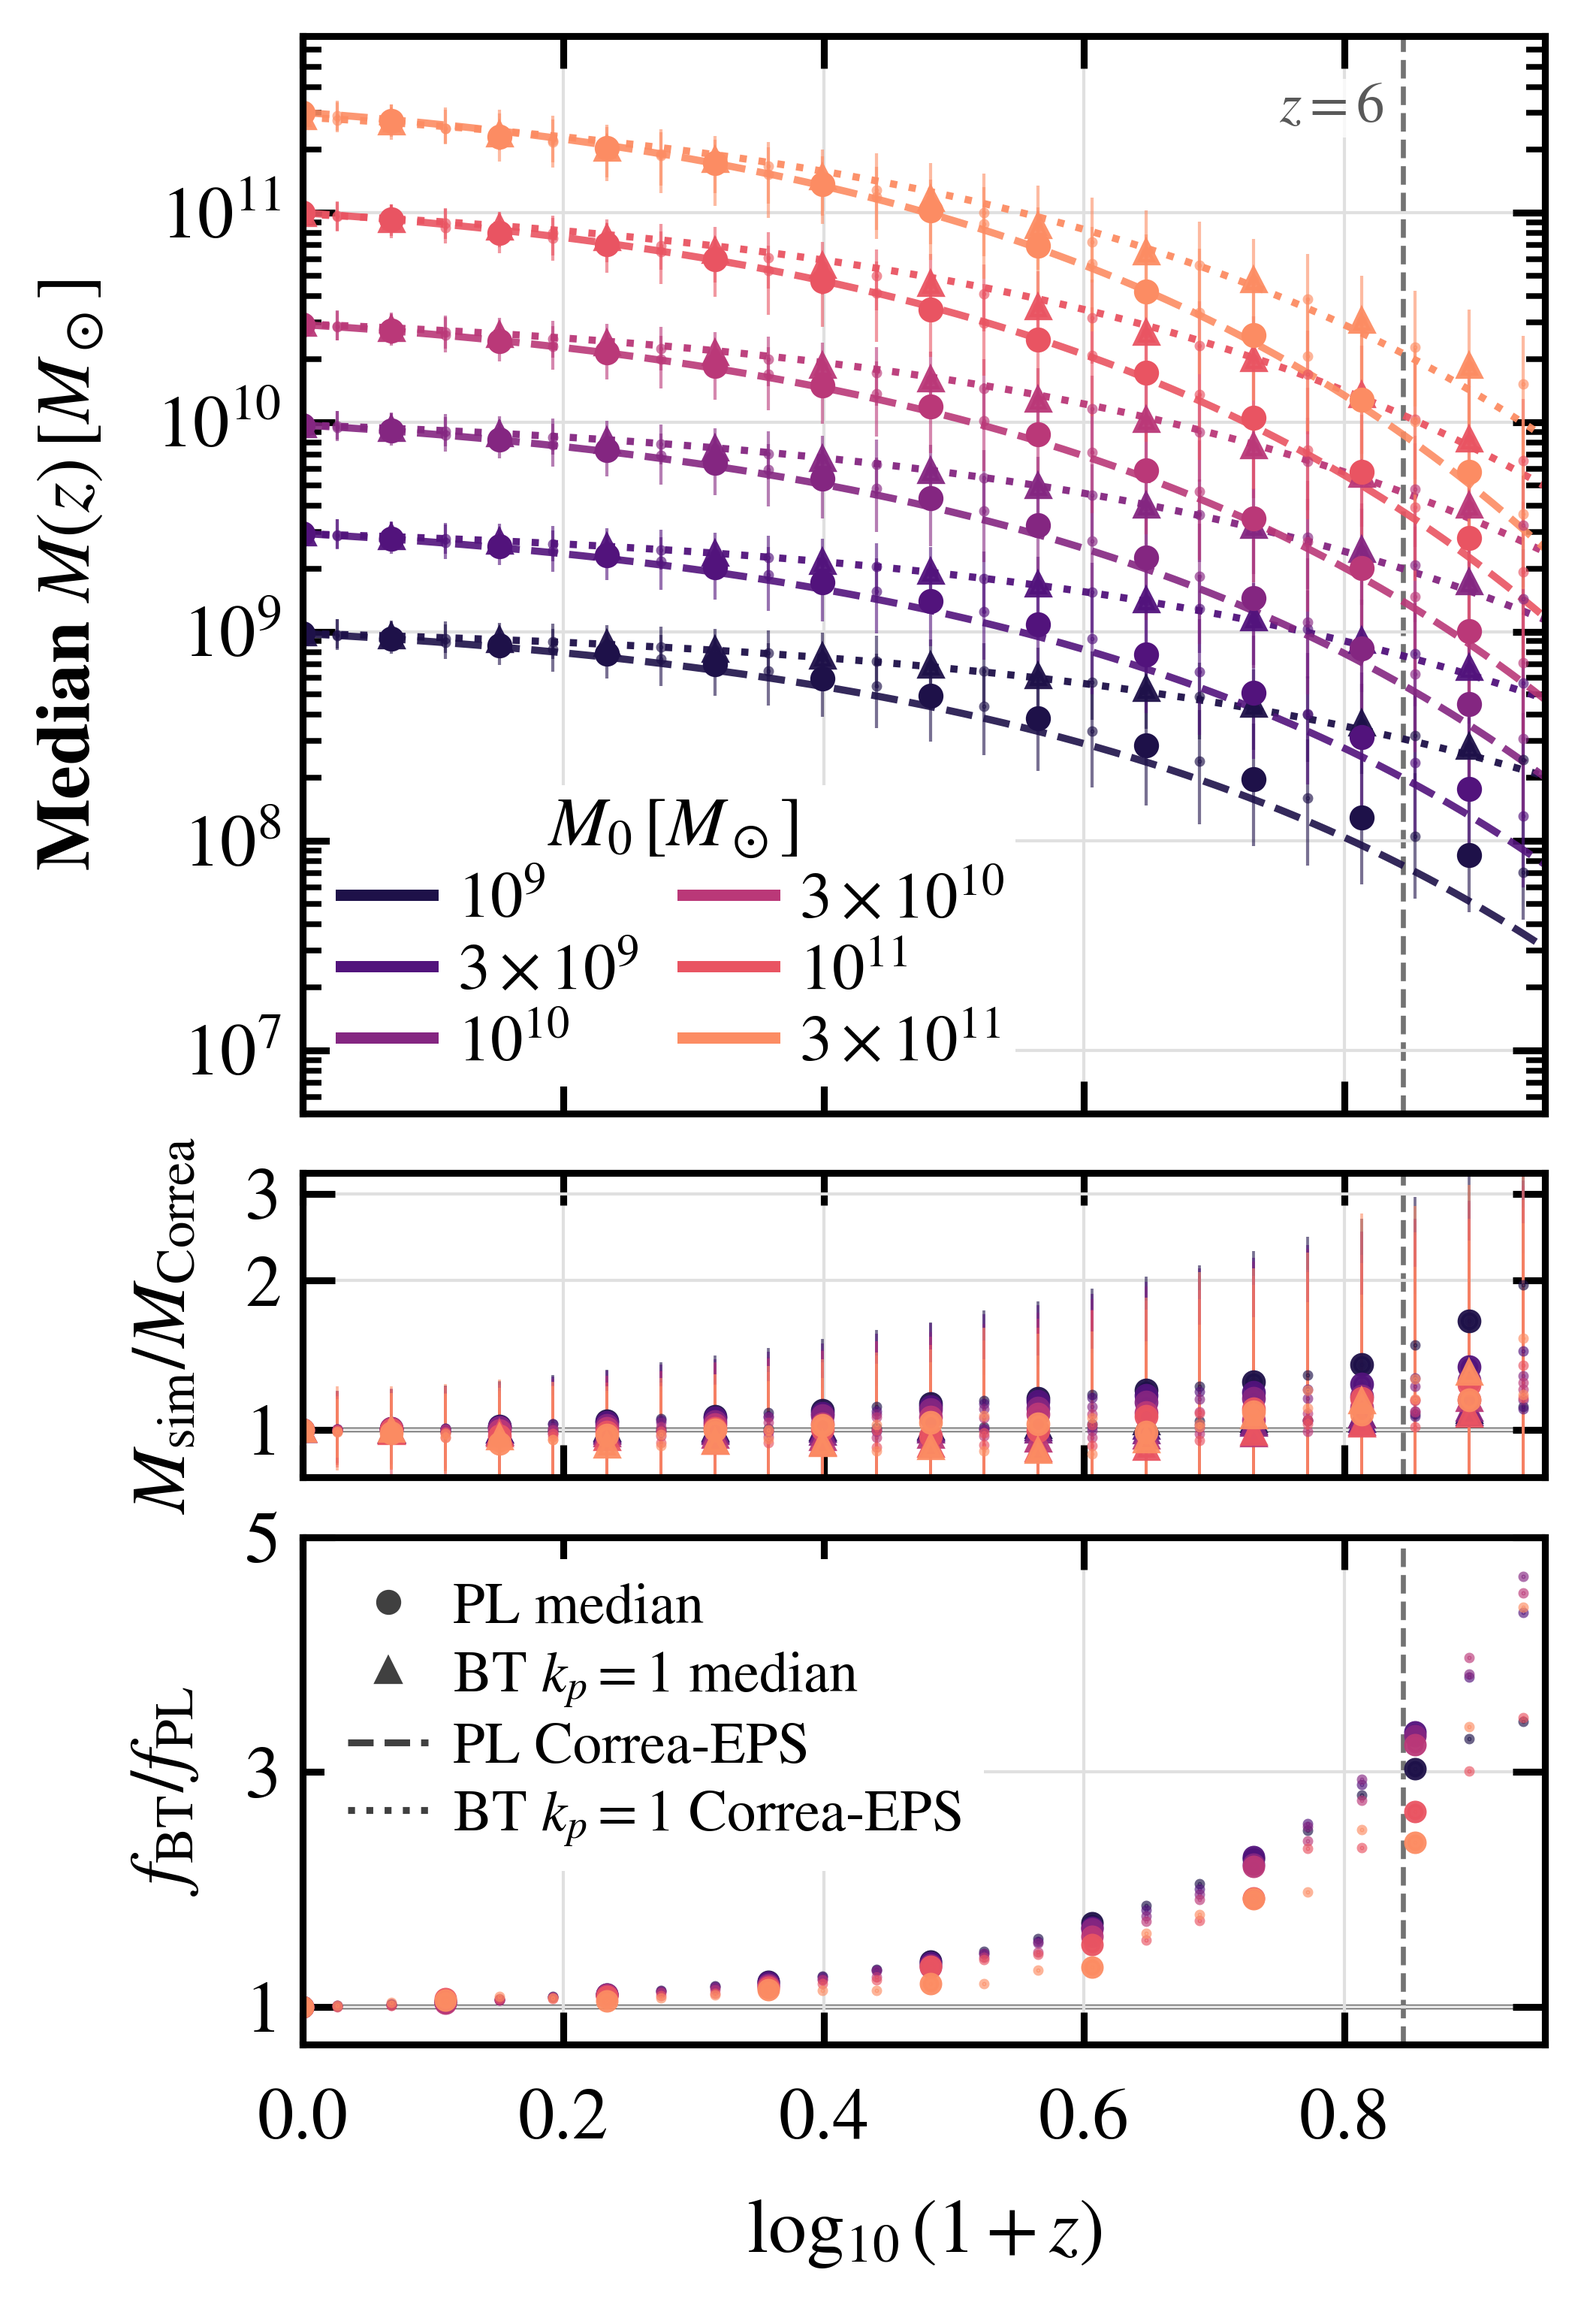
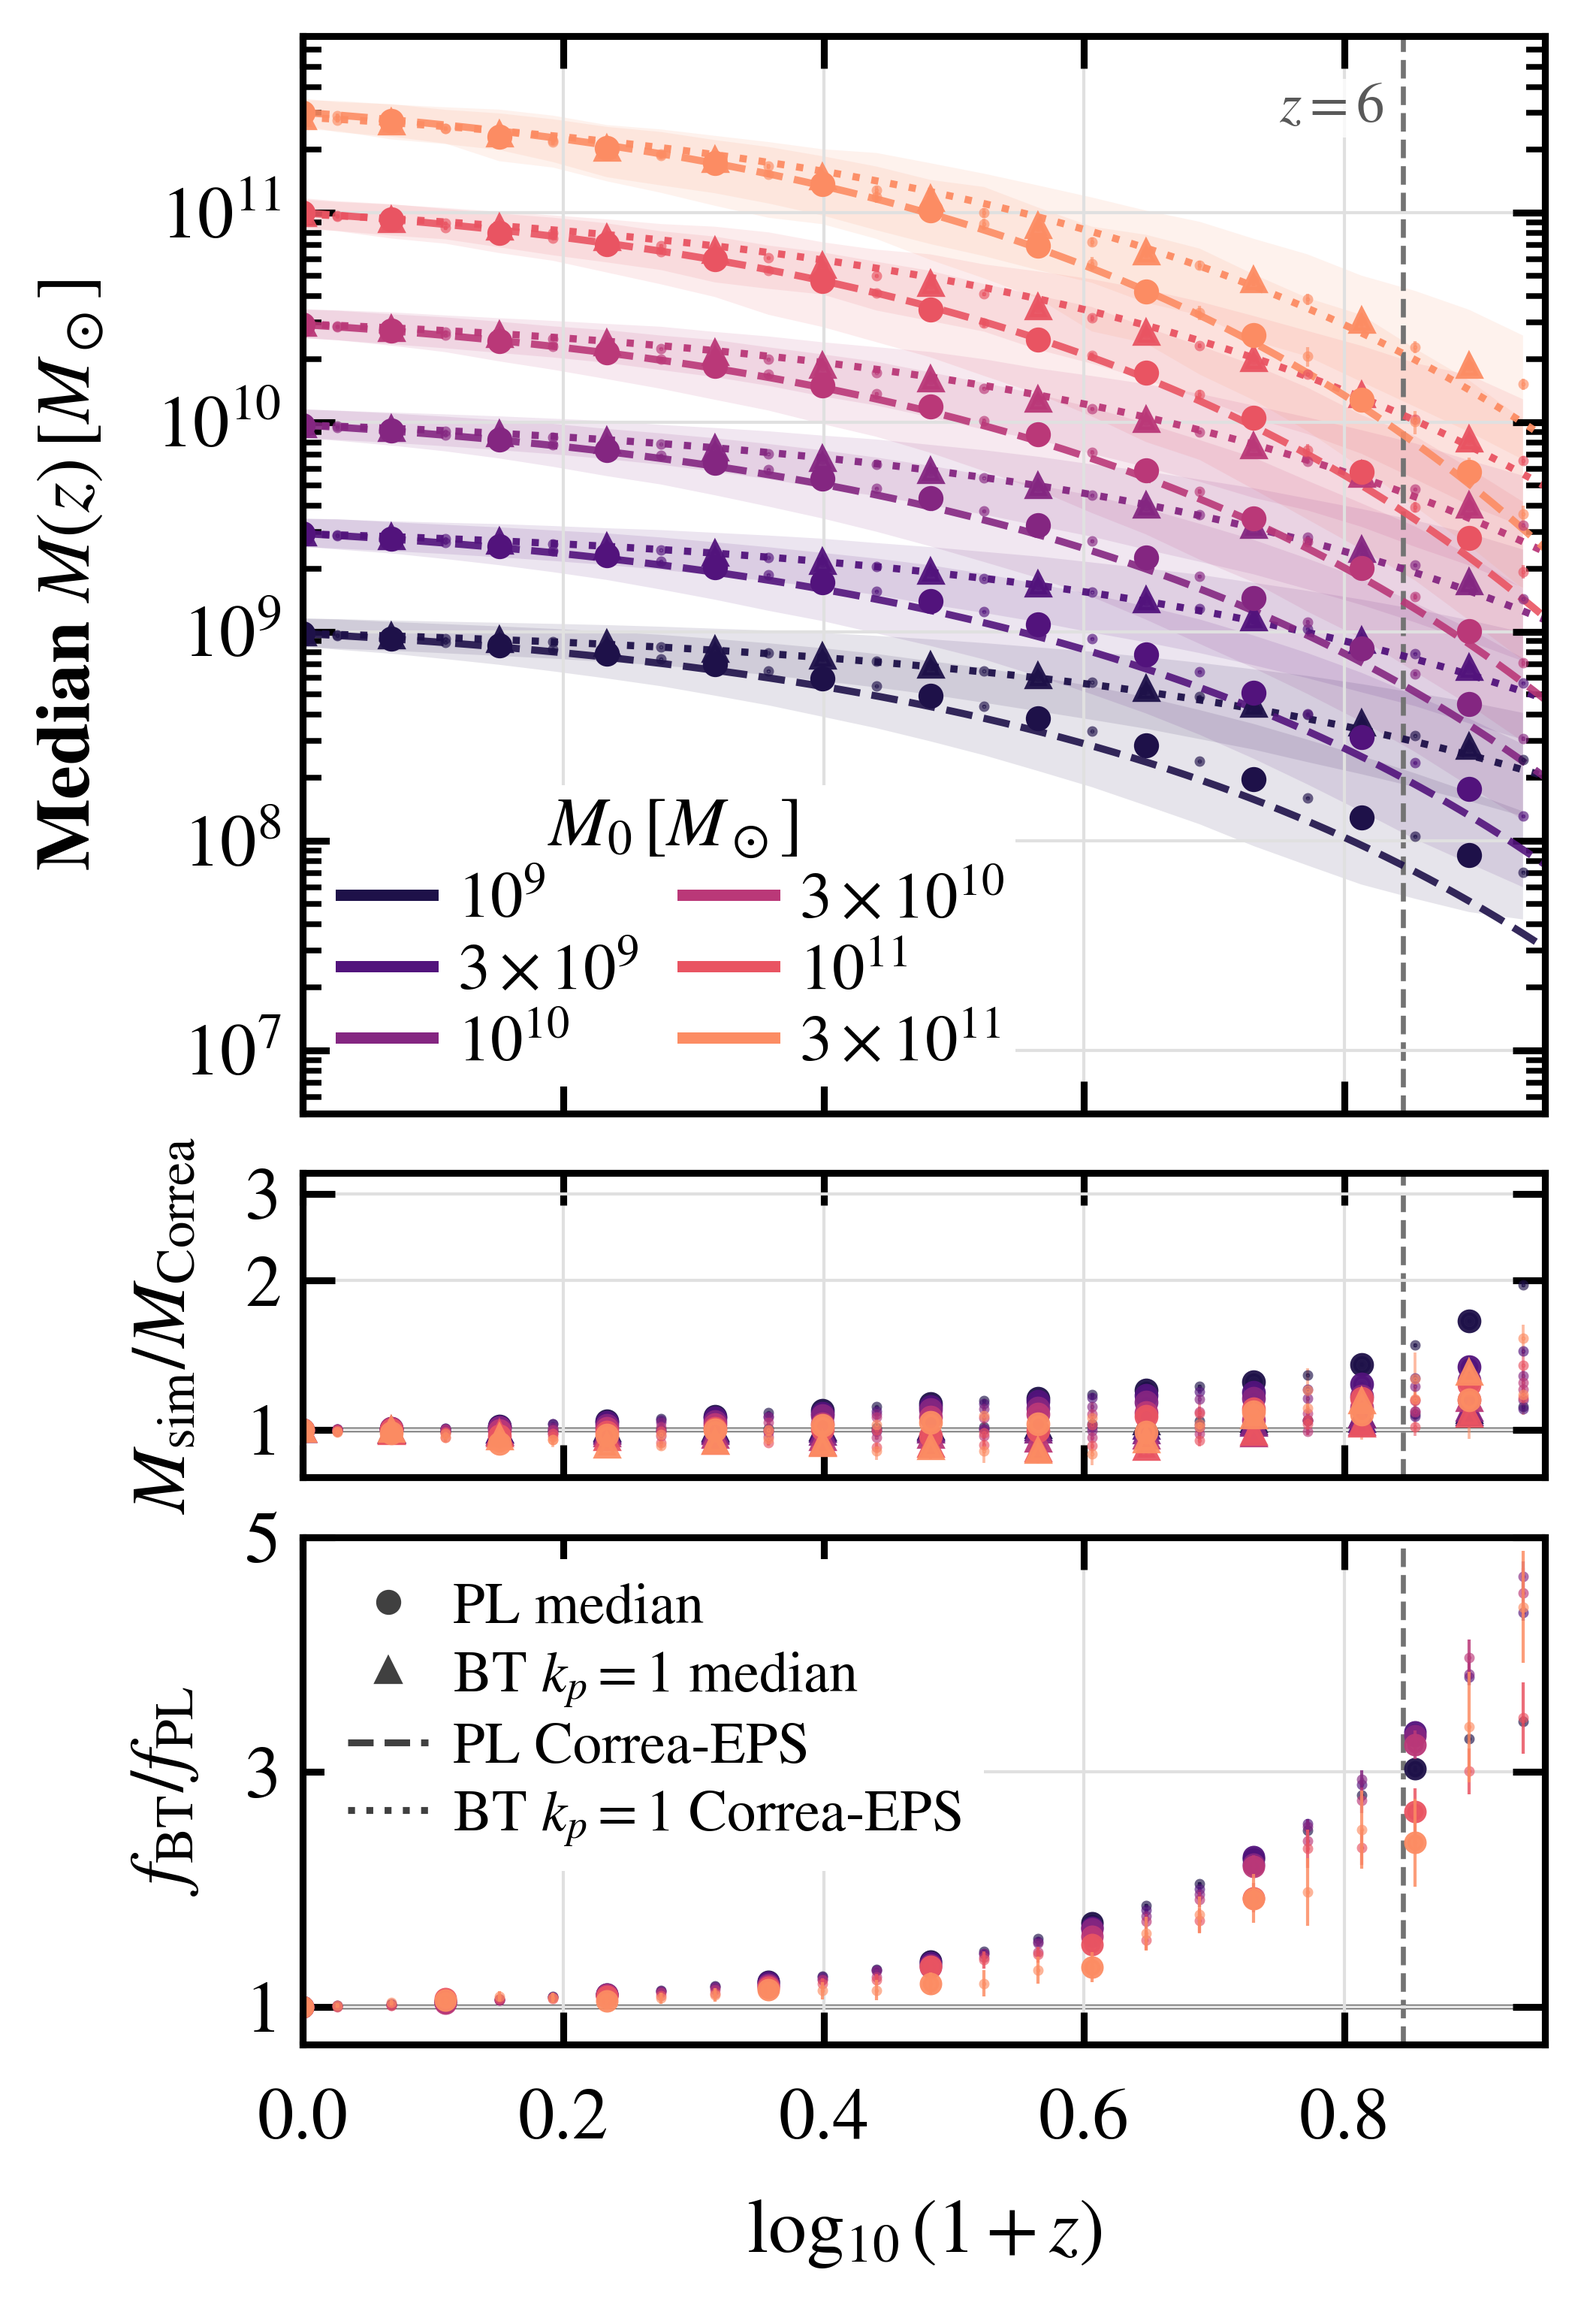
Show track-bootstrap uncertainties and clarify the Correa reference in Fig. 7

Changed region(s): [[0.1853, 0.031, 0.9881, 0.4024]]

diff --git a/main.tex b/main.tex
@@ -377,9 +377,9 @@ q&=4.137\,\widetilde z_{\rm f}^{-0.9476}.
 \end{aligned}
 \label{eq:correa_q_closure}
 \end{equation}
-\change{The Correa formation redshift satisfies \(M(\widetilde z_{\rm f})=M_0/q\), while the half-mass redshift satisfies \(M(z_{1/2})=M_0/2\).}
+\change{In the Correa model, the formation epoch is defined by \(M(\widetilde z_{\rm f})=M_0/q\), while the half-mass redshift satisfies \(M(z_{1/2})=M_0/2\).}
 
-For the Correa-EPS curves, we use the Planck 2018 cosmology in Sec.~\ref{subsec:cosmo_params} for linear growth, the mean matter density that sets the smoothing scale, and the normalization of the PL and \BTKPone{} linear matter power spectra, and adopt the WMAP5 relations for \(\widetilde z_{\rm f}(M_0)\) and \(q(\widetilde z_{\rm f})\) from \citet{Correa2015MAHI}. For the model curves, we evaluate \(a=1+1.686\sqrt{2/\pi}\,[\mathrm{d}D/\mathrm{d}z]_{z=0}=0.292\) using the Planck 2018 growth factor, normalized to \(D(0)=1\), and compute \(S(M)\) from each simulation model's linear spectrum. The parameter \(q\) sets the progenitor mass scale \(M_0/q\) in the EPS calculation. Across the six mass bins in Fig.~\ref{fig:mass_assembly_history_correa}, \(q\) ranges from 2.68 to 3.20. At fixed \(M_0\), we use the same \(q\), \(\widetilde z_{\rm f}\), and \(a\) for PL and \BTKPone{}. The two predictions differ only because their linear matter power spectra give different values of \(S(M_0/q)-S(M_0)\). None of these parameters is fitted to our simulations. Note that fixing the WMAP5 \((\widetilde z_{\rm f},q)\) closure across models is an approximate fixed-parameter baseline in which \(M(\widetilde z_{\rm f})=M_0/q\) holds strictly for the WMAP5 calibration rather than for \BTKPone{}, and the comparison also pairs FOF simulation histories with an \(M_{200c}\)-calibrated prescription.
+For the Correa-EPS curves, we use the Planck 2018 cosmology in Sec.~\ref{subsec:cosmo_params} for linear growth, the mean matter density that sets the smoothing scale, and the normalization of the PL and \BTKPone{} linear matter power spectra, and adopt the WMAP5 relations for \(\widetilde z_{\rm f}(M_0)\) and \(q(\widetilde z_{\rm f})\) from \citet{Correa2015MAHI}. For the model curves, we evaluate \(a=1+1.686\sqrt{2/\pi}\,[\mathrm{d}D/\mathrm{d}z]_{z=0}=0.292\) using the Planck 2018 growth factor, normalized to \(D(0)=1\), and compute \(S(M)\) from each simulation model's linear spectrum. The parameter \(q\) sets the progenitor mass scale \(M_0/q\) in the EPS calculation. Across the six mass bins in Fig.~\ref{fig:mass_assembly_history_correa}, \(q\) ranges from 2.68 to 3.20. At fixed \(M_0\), we use the same \(q\), \(\widetilde z_{\rm f}\), and \(a\) for PL and \BTKPone{}. The two predictions differ only because their linear matter power spectra give different values of \(S(M_0/q)-S(M_0)\). None of these parameters is fitted to our simulations. We normalize each curve to the measured median final FOF mass of its own sample. The comparison therefore tests the shape of the assembly history with redshift. The WMAP5 relation supplies \(q\) through \(\widetilde z_{\rm f}\); we do not impose a crossing at \(M_0/q\) on the resulting curves. The prescription was calibrated for \(M_{200c}\), whereas the simulated histories use FOF masses.
 
 
 At fixed final FOF mass, both the simulations and the Correa-EPS calculation predict larger progenitor masses for \BTKPone{} than for PL. The difference increases with redshift, indicating earlier assembly in \BTKPone{}. With this fixed-parameter baseline, the Correa-EPS calculation lies closer to the simulated \BTKPone{} conditional medians than to PL, particularly near \(M_0=10^9\,M_\odot\) at \(z=6\) where PL suffers progenitor truncation. For \(10^9\le M_0/M_\odot\le10^{11}\), the maximum absolute difference \(\lvert M_{\rm sim}/M_{\rm Correa}-1\rvert\) at \(z=1,2,4,\) and \(6\) is \(46\%\) for PL and \(9\%\) for \BTKPone{}. At \(M_0=3\times10^{11}\,M_\odot\), the corresponding differences are \(23\%\) and \(16\%\), respectively.
@@ -392,7 +392,7 @@ The same trend follows from Eqs.~(\ref{eq:correa2015_mah}) and (\ref{eq:correa20
 \begin{figure}[tbp]
     \centering
     \includegraphics[width=\columnwidth]{mass-assembly-history-correa.png}
-    \caption{\change{{\it Upper panel:} Median FOF mass-assembly histories for halos selected at \(z=0\). Circles show PL simulation medians, and triangles show \BTKPone{} medians. Colors indicate six final-mass windows centered on \(10^9\), \(3\times10^9\), \(10^{10}\), \(3\times10^{10}\), \(10^{11}\), and \(3\times10^{11}\,M_\odot\), each with a half-width of 0.1 dex. Halos are followed through their persistent \texttt{TrackId}, and each point is the median positive Warren-corrected FOF mass among the selected halos detected at that snapshot. Large symbols with error bars are plotted at sparse intervals for visual legibility alongside small dots for intermediate snapshots; error bars show the 16th--84th percentile halo-to-halo range of \(M(z)\) in each final-mass window. Dashed and dotted curves show the Correa-EPS calculations using the published \(q\) and \(\widetilde z_{\rm f}\) relations and the PL or \BTKPone{} linear matter power spectrum. {\it Middle panel:} Ratio of each simulation median to the corresponding Correa-EPS curve at the same redshift. The error bars show the same halo-to-halo intervals divided by the Correa-EPS value. {\it Lower panel:} Ratio \(f_{\rm BT}/f_{\rm PL}\) of the normalized \BTKPone{} and PL simulation histories, where \(f=M/M_0\) in each final-mass window. Horizontal lines mark unity, and the vertical dashed line marks the \(z=6\) quantitative limit. Quantitative interpretation is restricted to \(M_0\ge10^9\,M_\odot\) and \(z\le6\).}}
+    \caption{\change{{\it Upper panel:} Median FOF mass-assembly histories for halos selected at \(z=0\). Circles show PL simulation medians, and triangles show \BTKPone{} medians. Colors indicate six final-mass windows centered on \(10^9\), \(3\times10^9\), \(10^{10}\), \(3\times10^{10}\), \(10^{11}\), and \(3\times10^{11}\,M_\odot\), each with a half-width of 0.1 dex. Halos are followed through their persistent \texttt{TrackId}, and each point is the median positive Warren-corrected FOF mass among the selected halos detected at that snapshot. Bands span the 16th--84th percentiles of detected halo masses. Error bars give one bootstrap standard error on the median from 4096 resamples of whole halo histories within each mass window and model. Dashed and dotted curves show the Correa-EPS calculations using the published \(q\) and \(\widetilde z_{\rm f}\) relations and the PL or \BTKPone{} linear matter power spectrum. Each curve is anchored to its sample median at \(z=0\) and provides a reference for the shape of the history. {\it Middle panel:} Ratio of each simulation median to the corresponding Correa-EPS curve at the same redshift. Error bars give the bootstrap standard error on the median divided by the fixed reference value. {\it Lower panel:} Ratio \(f_{\rm BT}/f_{\rm PL}\) of the normalized \BTKPone{} and PL simulation histories, where \(f=M/M_0\) in each final-mass window. For each bootstrap draw we normalize each model to its resampled median at \(z=0\) and recompute the ratio; error bars give its bootstrap standard deviation. Horizontal lines mark unity, and the vertical dashed line marks the \(z=6\) quantitative limit. Quantitative interpretation is restricted to \(M_0\ge10^9\,M_\odot\) and \(z\le6\).}}
     \label{fig:mass_assembly_history_correa}
 \end{figure}
 

diff --git a/public_data/scripts/plot_mass_assembly_history_correa.py b/public_data/scripts/plot_mass_assembly_history_correa.py
@@ -125,7 +125,7 @@ def normalized_bt_to_pl_ratio(
 def make_figure(
     output: Path,
     errorbar_table: Path | None = None,
-    interval_kind: str = "halo",
+    interval_kind: str = "track-bootstrap",
 ) -> None:
     pl_curves = pd.read_csv(DATA_DIR / "pl_project_warren_curves.csv")
     bt_curves = pd.read_csv(DATA_DIR / "bt_project_warren_curves.csv")
@@ -134,6 +134,10 @@ def make_figure(
     pl_summary = pd.read_csv(DATA_DIR / "pl_warren_selection_summary.csv")
     bt_summary = pd.read_csv(DATA_DIR / "bt_soft_warren_selection_summary.csv")
     errorbars = pd.read_csv(errorbar_table) if errorbar_table is not None else None
+
+    if interval_kind == "track-bootstrap":
+        table = DATA_DIR / "mah_track_bootstrap.csv" if errorbar_table is None else errorbar_table
+        errorbars = pd.read_csv(table)
 
     fig, (ax, ratio_ax, bt_pl_ax) = plt.subplots(
         3,
@@ -157,6 +161,22 @@ def make_figure(
         if interval_kind == "halo":
             pl_mass_errors = direct_halo_interval_errors(pl_direct)
             bt_mass_errors = direct_halo_interval_errors(bt_direct)
+        elif interval_kind == "track-bootstrap":
+            def track_errors(model, direct):
+                subset = errorbars[(errorbars["model"] == model) & (errorbars["target_M0_msun"] == target)].sort_values("z")
+                np.testing.assert_allclose(subset["z"], direct["z"], atol=1e-8)
+                np.testing.assert_allclose(subset["median_M_msun"], direct["median_M_msun"])
+                for count in ("n_halos", "n_positive_mass"):
+                    np.testing.assert_array_equal(subset[count], direct[count])
+                ax.fill_between(np.log10(1 + direct["z"].to_numpy()),
+                                direct["p16_M_msun"].to_numpy(), direct["p84_M_msun"].to_numpy(),
+                                facecolor=color, alpha=0.11, linewidth=0, zorder=0.8)
+                return subset
+
+            pl_stats = track_errors("PL", pl_direct)
+            bt_stats = track_errors("BT_kp1", bt_direct)
+            pl_mass_errors = pl_stats["median_bootstrap_se"].to_numpy()
+            bt_mass_errors = bt_stats["median_bootstrap_se"].to_numpy()
         elif errorbars is not None:
             pl_mass_errors = mass_interval_errors(
                 errorbars,
@@ -165,8 +185,6 @@ def make_figure(
                 pl_direct["z"].to_numpy(dtype=float),
                 interval_kind,
             )
-        else:
-            raise ValueError("--errorbar-table is required for bootstrap intervals")
             bt_mass_errors = mass_interval_errors(
                 errorbars,
                 "BT_kp1",
@@ -174,6 +192,8 @@ def make_figure(
                 bt_direct["z"].to_numpy(dtype=float),
                 interval_kind,
             )
+        else:
+            raise ValueError("--errorbar-table is required for bootstrap intervals")
         sparse_errorbar(ax,
             np.log10(1.0 + pl_direct["z"]),
             pl_direct["median_M_msun"],
@@ -242,6 +262,10 @@ def make_figure(
         bt_pl_x, bt_pl_ratio, pl_mass, pl_fraction, bt_fraction = normalized_bt_to_pl_ratio(
             bt_direct, pl_direct
         )
+        if interval_kind == "track-bootstrap":
+            np.testing.assert_allclose(bt_pl_ratio, bt_stats["normalized_bt_over_pl"])
+            bt_pl_ax.errorbar(bt_pl_x, bt_pl_ratio, yerr=bt_stats["ratio_bootstrap_se"],
+                              fmt="none", ecolor=color, elinewidth=0.5, capsize=0, alpha=0.85)
         bt_pl_ax.plot(
             bt_pl_x,
             bt_pl_ratio,
@@ -371,8 +395,8 @@ def parse_args() -> argparse.Namespace:
     )
     parser.add_argument(
         "--interval-kind",
-        choices=["bootstrap", "halo"],
-        default="halo",
+        choices=["track-bootstrap", "bootstrap", "halo"],
+        default="track-bootstrap",
         help="Show bootstrap uncertainty of the median or halo-to-halo percentiles.",
     )
     return parser.parse_args()
